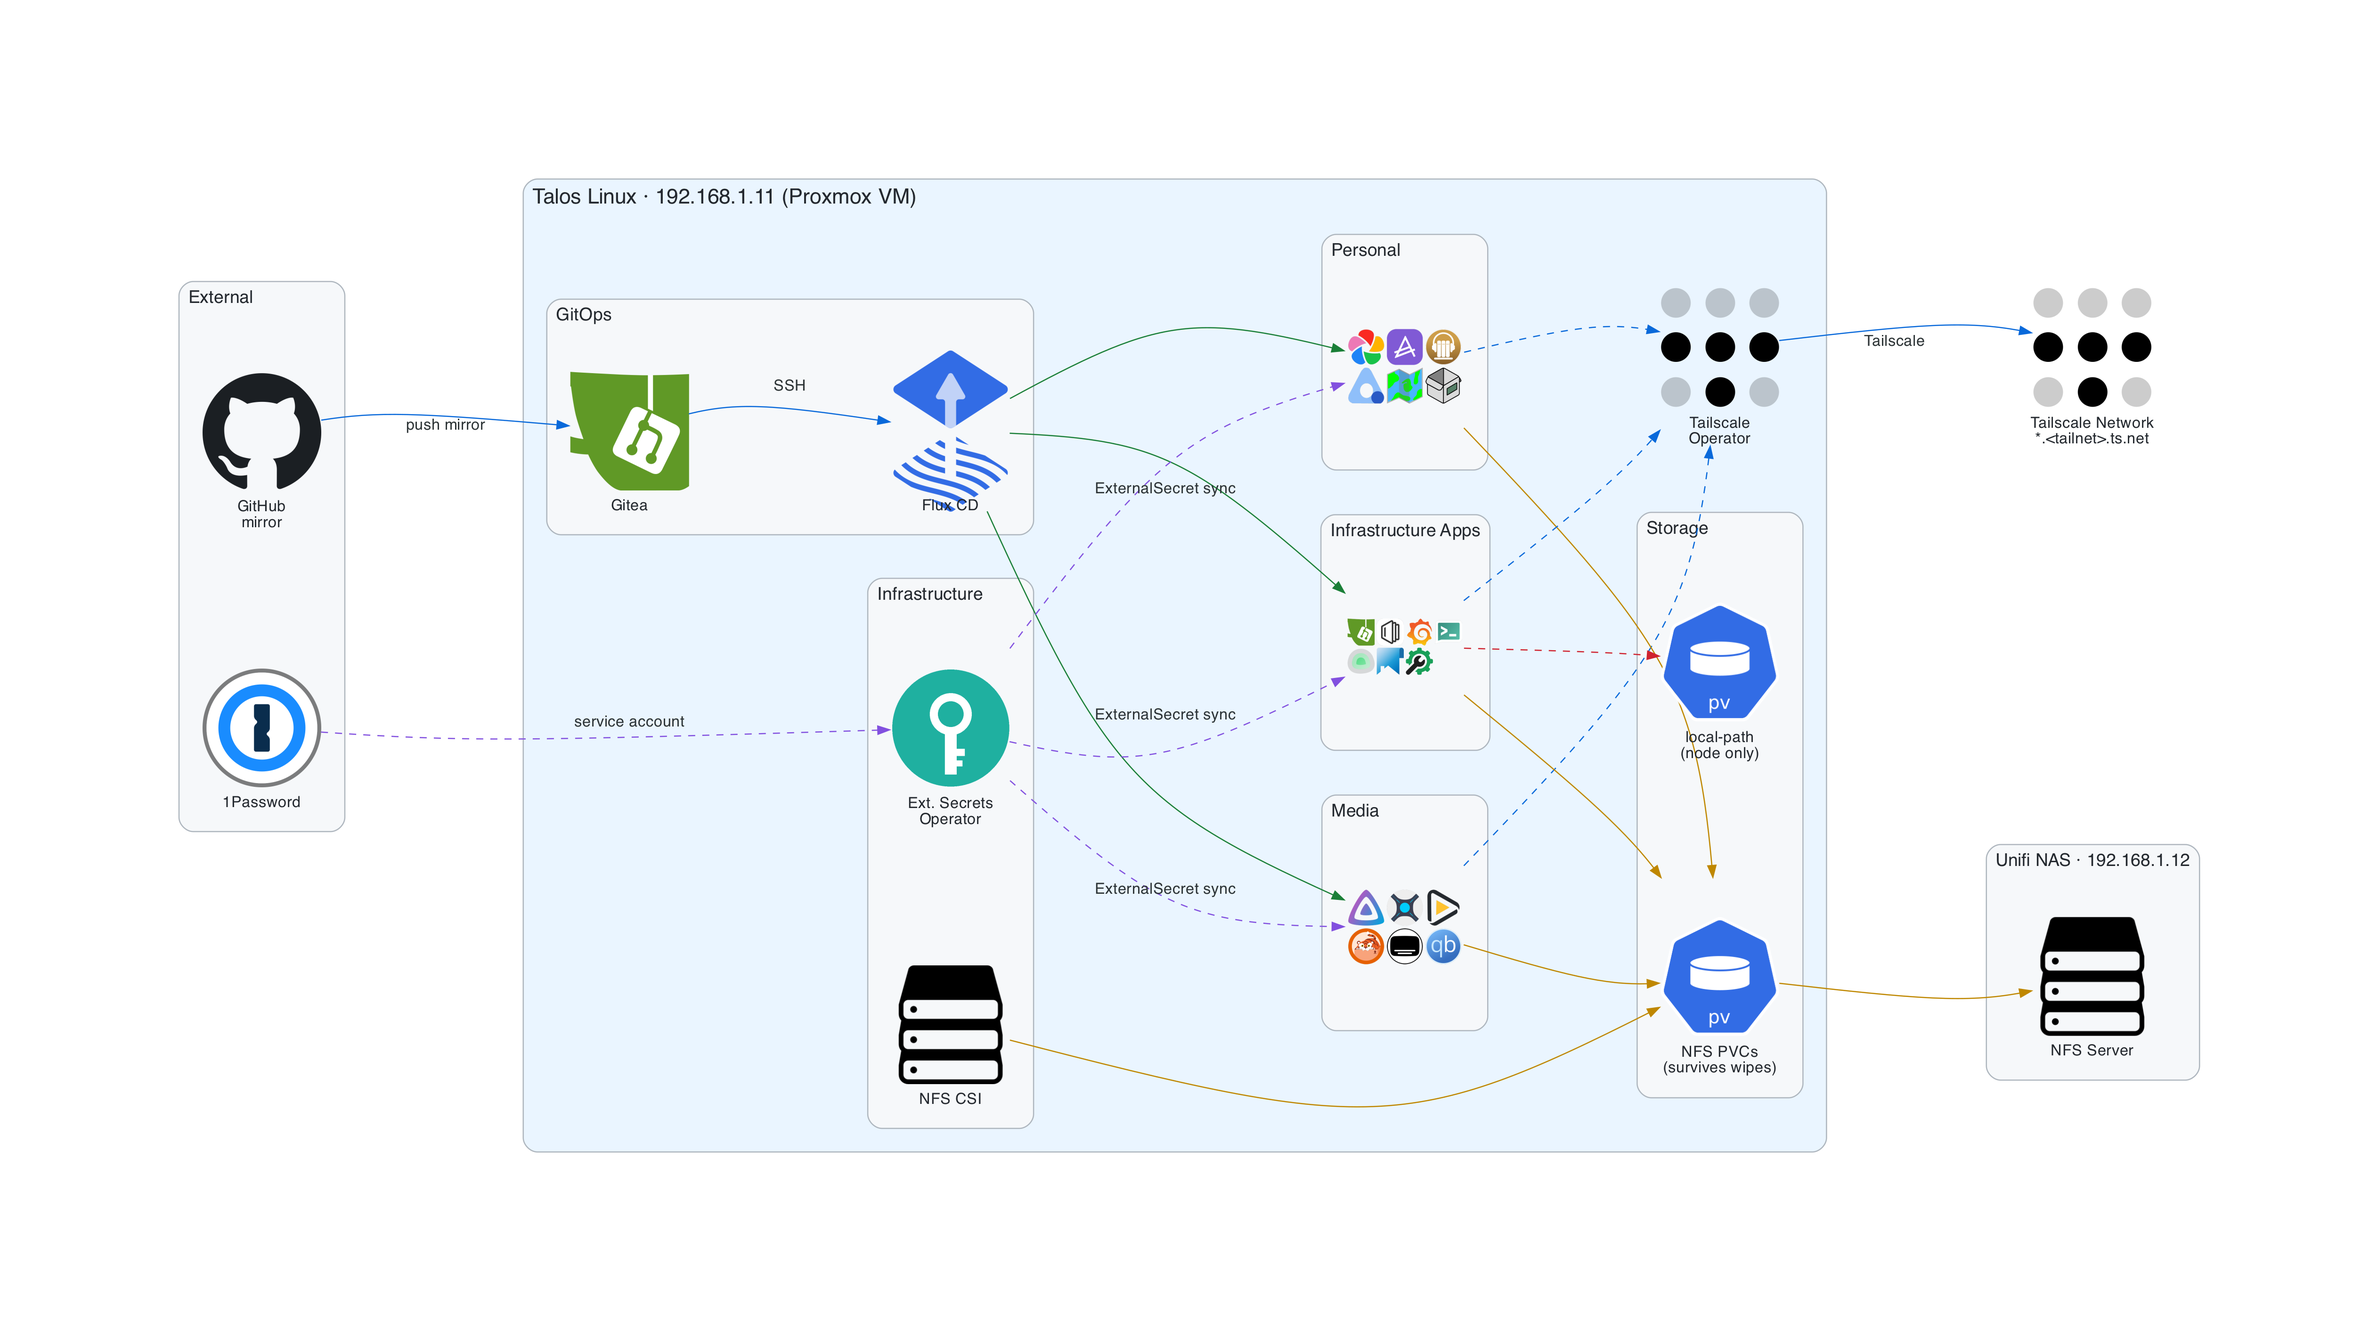
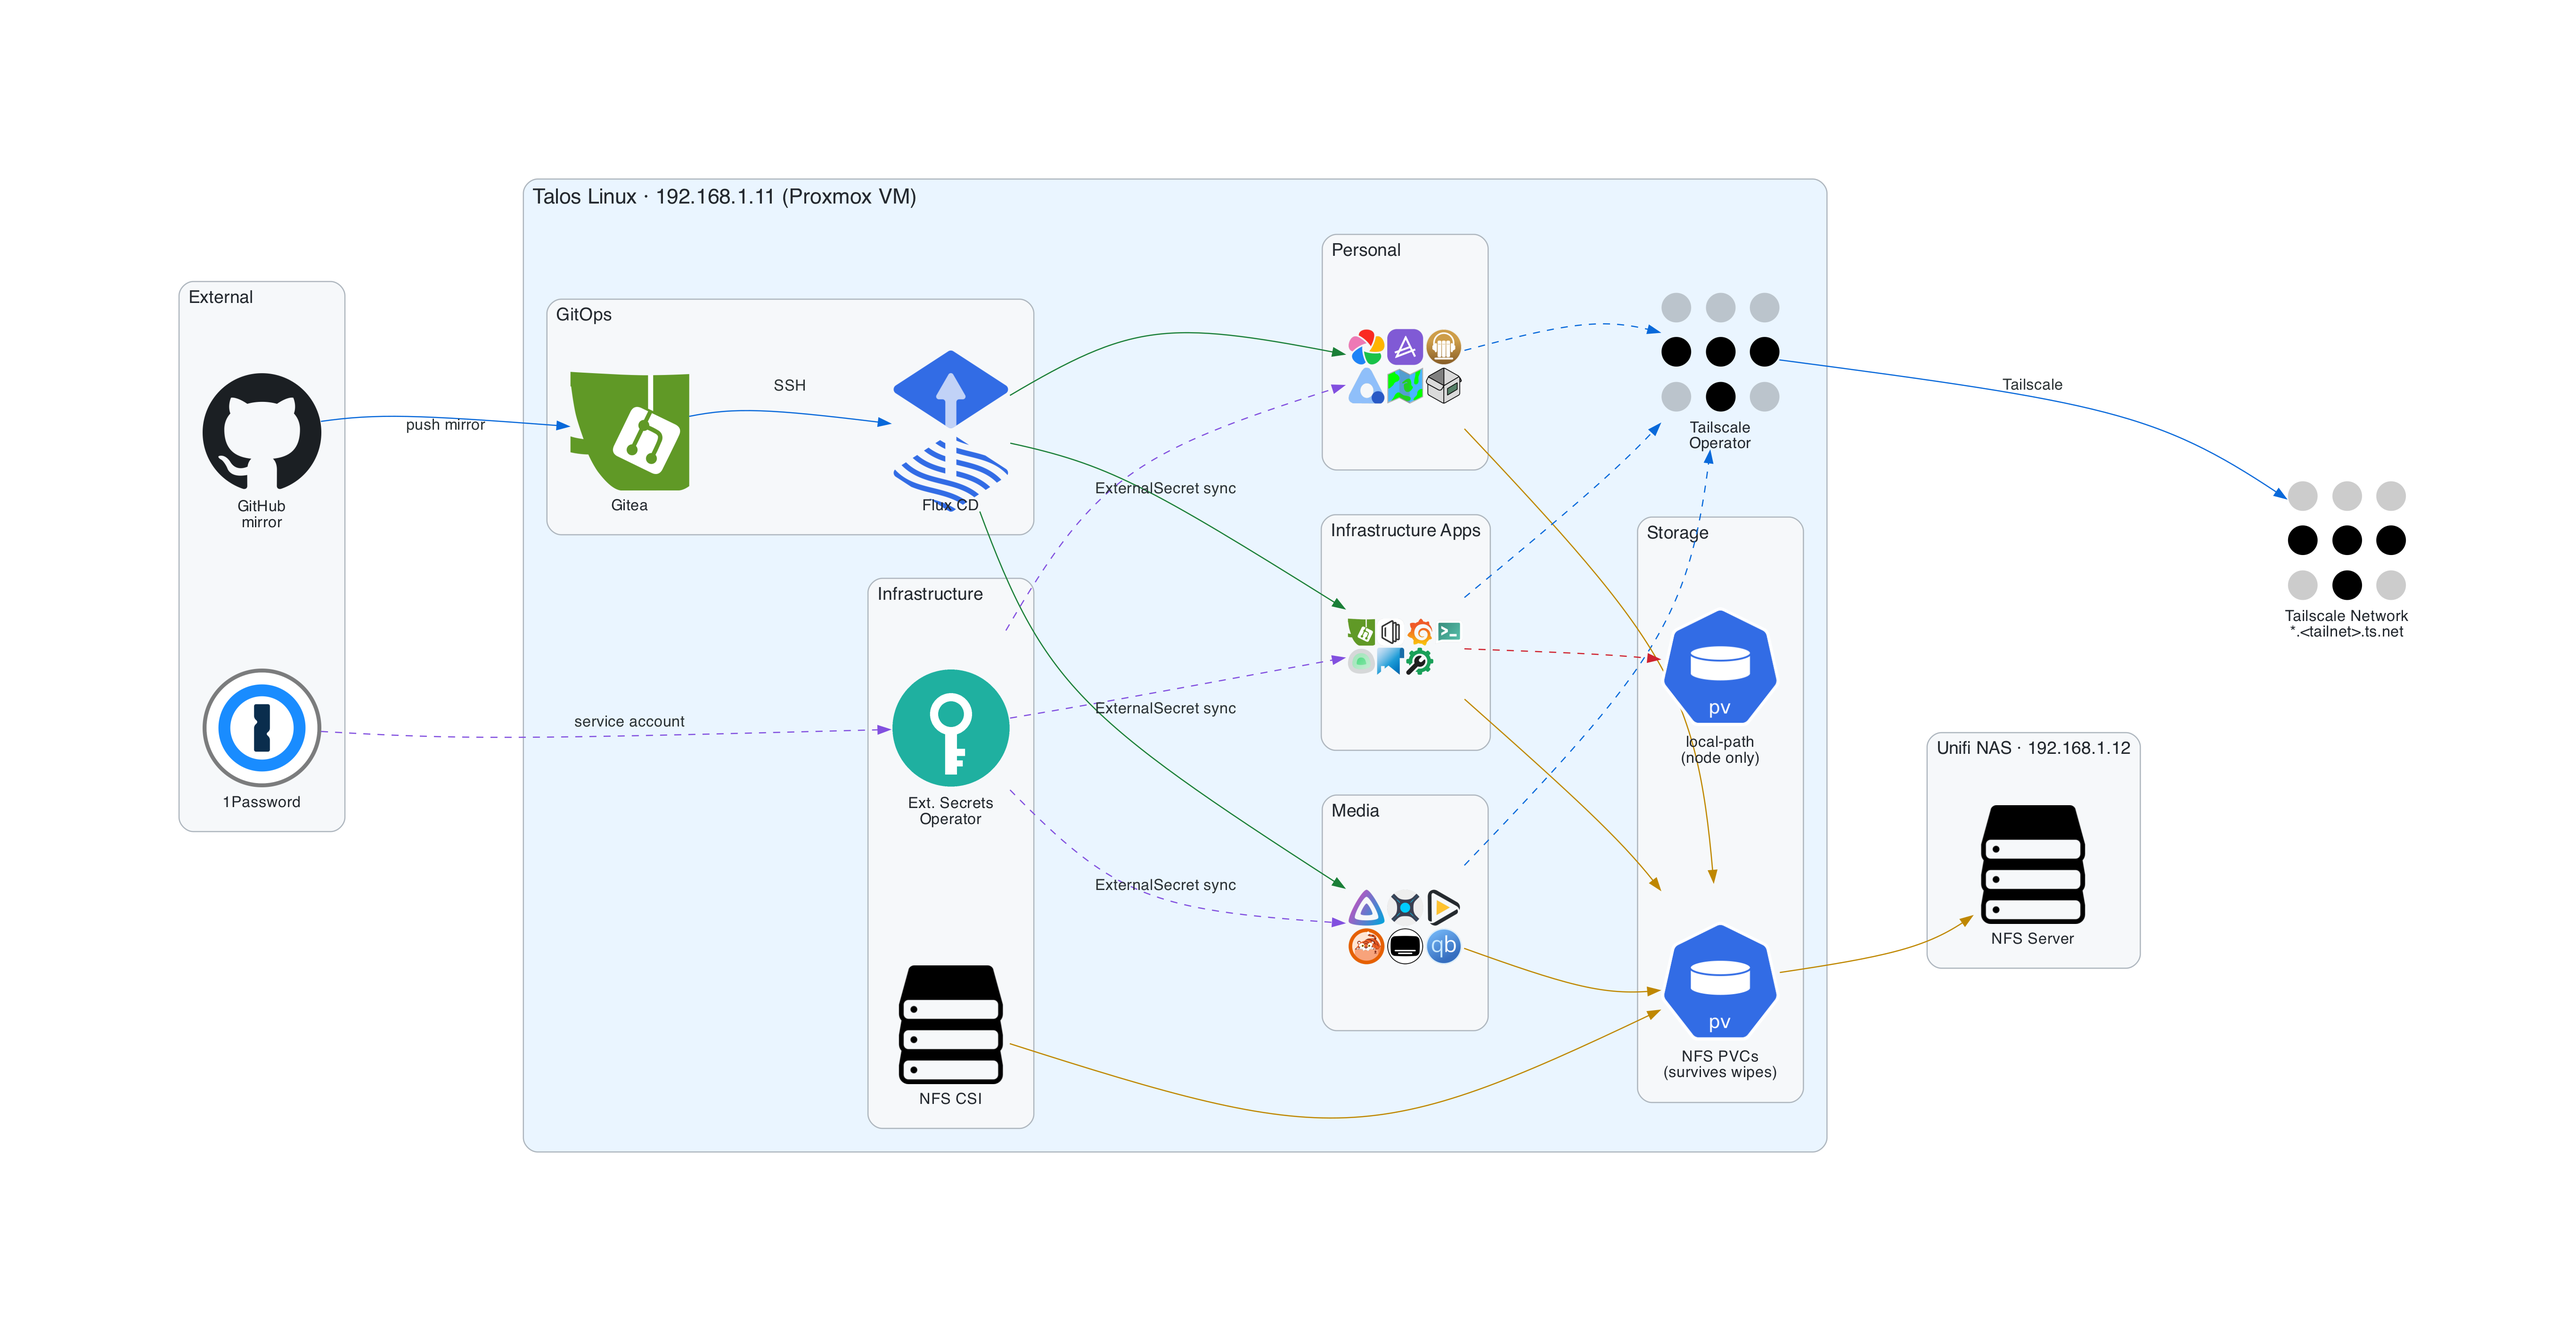
docs: swap NAS and Tailscale Network vertical positions

diff --git a/docs/draw_arch.py b/docs/draw_arch.py
@@ -165,3 +165,6 @@ with Diagram(
     # Networking — apps are exposed via the Operator onto the tailnet
     [media, personal, infra_apps] >> Edge(color="#0969da", style="dashed") >> ts_op
     ts_op >> Edge(label="Tailscale", color="#0969da") >> tailnet
+
+    # Ordering hint: NAS above Tailscale Network in the right column
+    nas >> Edge(style="invis") >> tailnet
